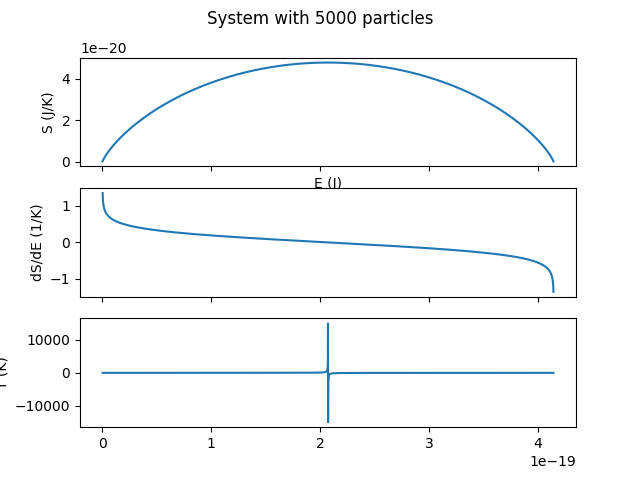
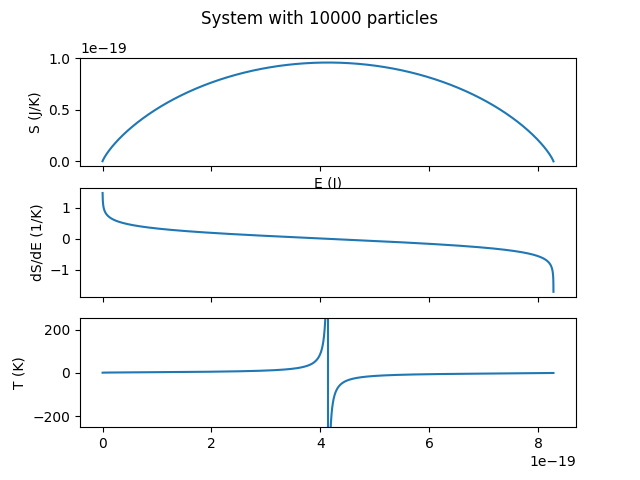
add y limits for temp graph in S plot
and redo accompanying images.

diff --git a/levels/levels.py b/levels/levels.py
@@ -244,6 +244,9 @@ if args.se_curve:
     ax2.set(ylabel="dS/dE (1/K)")
     ax3.plot(E_array[1:],temp_array)
     ax3.set(ylabel="T (K)")
+    #ylimit for temperature plot
+    if int(Max_T) > 25:
+        ax3.set_ylim(-(int(Max_T)+1),int(Max_T)+1)
     ax1.plot(E_array,S_array)
     ax1.set(xlabel="E (J)", ylabel="S (J/K)")
     plt.show()
